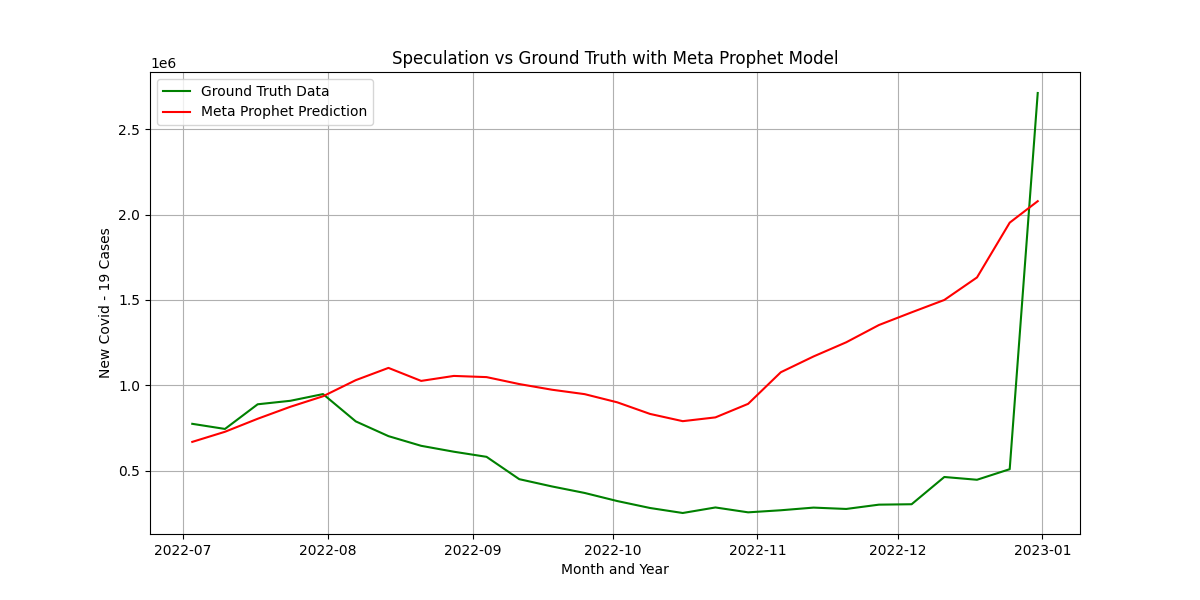
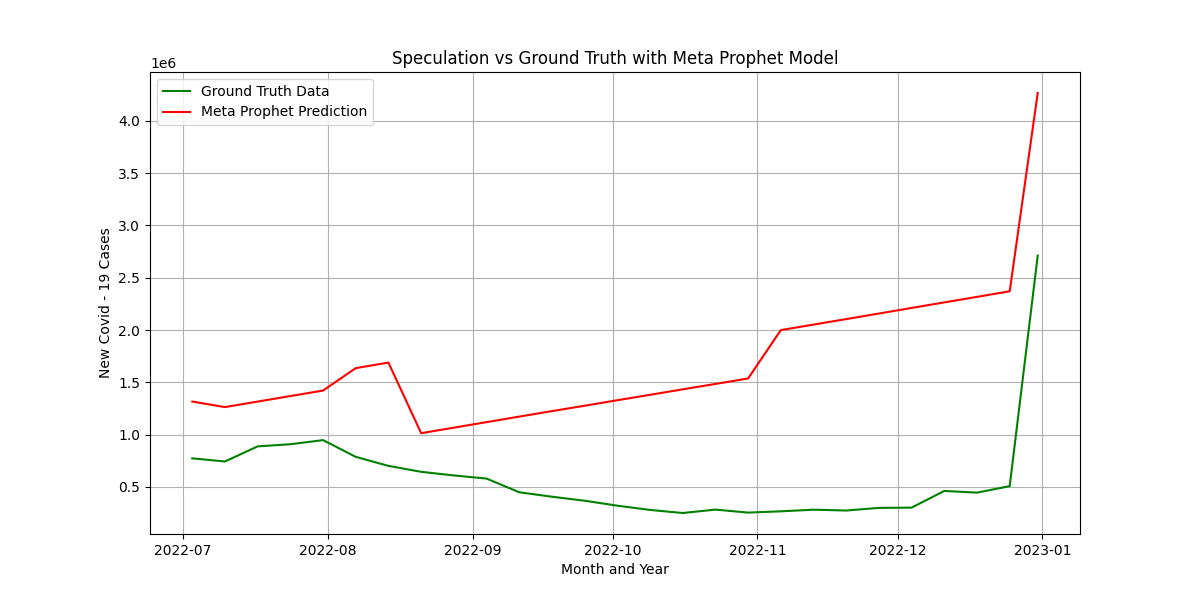
vaccination logic

diff --git a/code/vaccination_indicator.py b/code/vaccination_indicator.py
@@ -1,0 +1,29 @@
+from mobility_model import clean_data
+import matplotlib.pyplot as plt
+
+def plot_data(data):
+    for year in [2020, 2021, 2022]:
+        current_year_data = data[data['year'] == year]
+        
+        _, axis_left = plt.subplots(figsize=(12, 6))
+
+        axis_left.plot(current_year_data["week"], current_year_data["people_fully_vaccinated"], label="People Fully Vaccinated", color = "green")
+        axis_left.set_ylabel("People Fully Vaccinated", color = "green")
+        axis_left.set_title("People Fully Vaccinated and New Cases for Year - " + str(year))
+
+        axis_right = axis_left.twinx()
+        axis_right.plot(current_year_data['week'], current_year_data["new_cases"], label="New Cases", color = "red")
+        
+        axis_right.set_ylabel("New Cases", color = "red")
+
+        axis_left.grid(True)
+        axis_left.set_xlabel("Week")
+
+        plt.savefig("../plots/vaccination/" + str(year) + "-cases-plot.png", format = "png")
+        plt.show()
+
+if __name__ == "__main__":
+    data = clean_data()
+    data["people_fully_vaccinated"] = data["people_fully_vaccinated"].fillna(0)
+    plot_data(data)
+

diff --git a/code/meta_prophet_model.py b/code/meta_prophet_model.py
@@ -4,7 +4,7 @@ import matplotlib.pyplot as plt
 import pandas as pd
 
 def clean_data_for_prophet(data):
-    data = data[["date", "new_cases", "mobility_data", "new_vaccinations", "stringency_index"]]
+    data = data[["date", "new_cases", "mobility_data", "people_fully_vaccinated", "stringency_index"]]
     data = data.rename(columns={"date": "ds", "new_cases": "y"})
     data = data.dropna()
     return data
@@ -36,7 +36,7 @@ def run_meta_prophet_model(data):
     # We can also take into account the mobility_data.
     # meta_prophet_model.add_regressor("mobility_data", standardize = True)
 
-    meta_prophet_model.add_regressor("new_vaccinations", standardize = True)
+    meta_prophet_model.add_regressor("people_fully_vaccinated", standardize = True)
     meta_prophet_model.add_regressor("stringency_index", standardize = True)
 
     meta_prophet_model.fit(training_data)

diff --git a/code/mobility_model.py b/code/mobility_model.py
@@ -15,7 +15,8 @@ def clean_data():
         'week': 'first',
         'avg_USA': 'first',
         'date': 'last',
-        'stringency_index': 'last'
+        'stringency_index': 'last',
+        'people_fully_vaccinated': 'last'
     })
 
     shrink_data = shrink_data.rename(columns={'avg_USA': 'mobility_data'})
